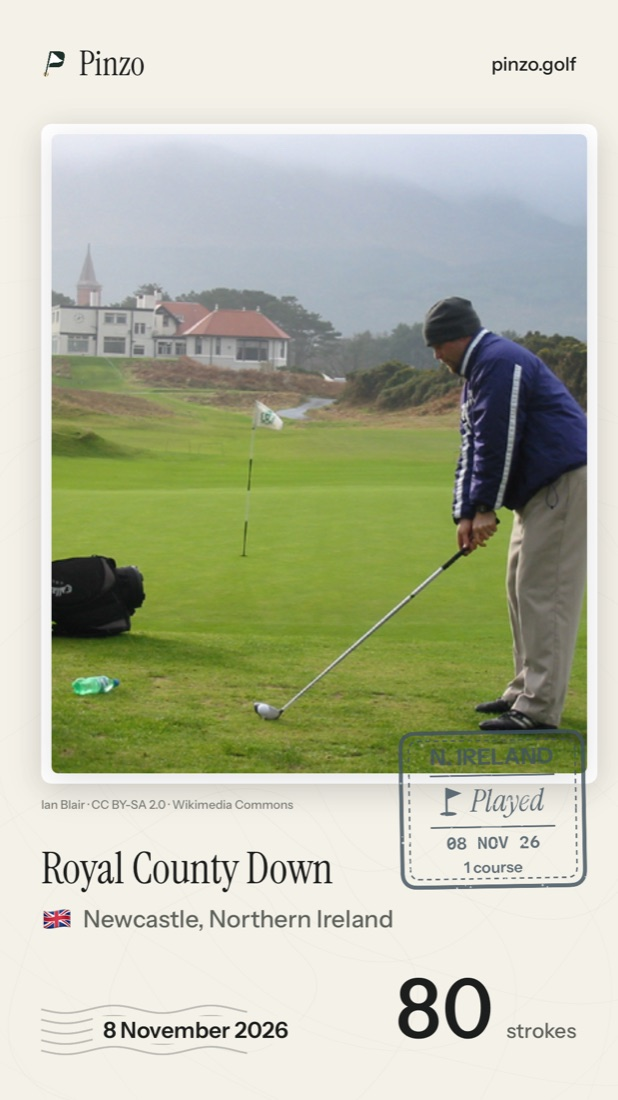
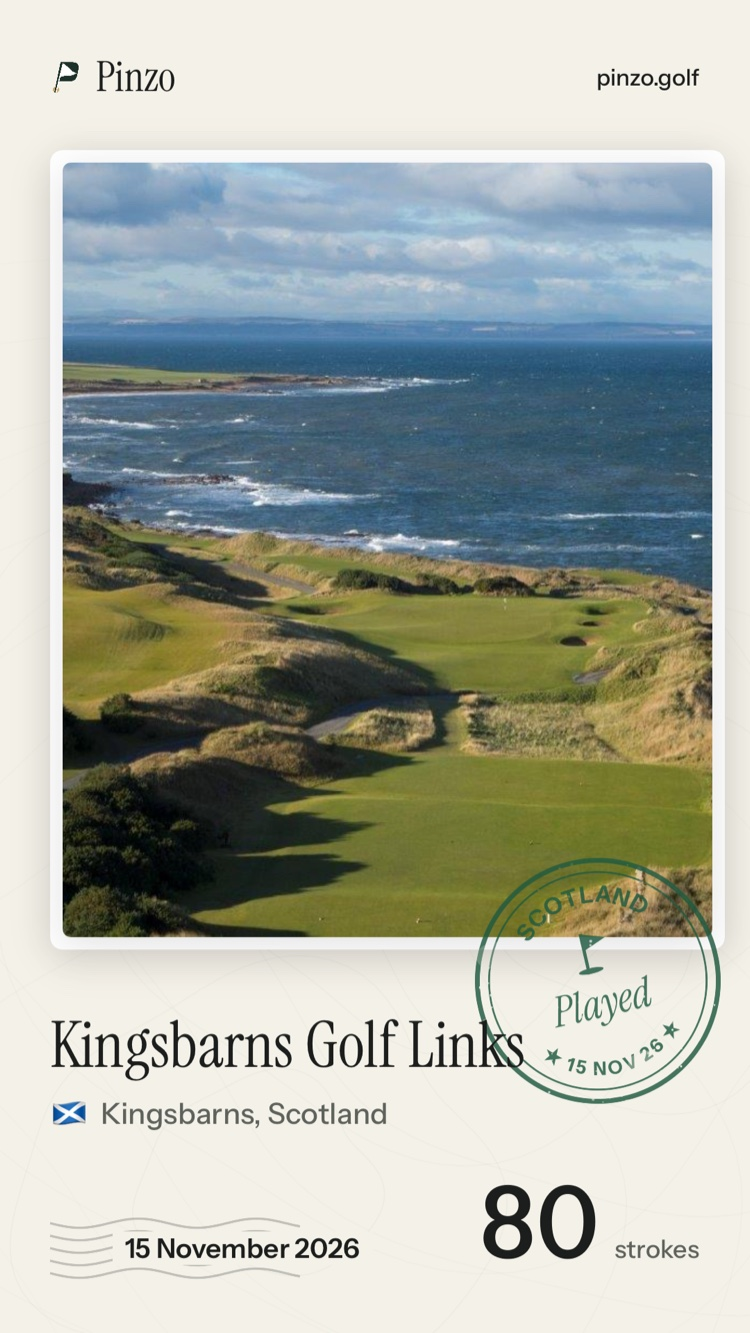
Calm scrolling, no globe hint, sharper mockups, Kingsbarns memories, shorter footer address

diff --git a/index.html b/index.html
@@ -31,7 +31,6 @@
           <span class="badge">Coming soon to the App Store</span>
           <span class="cta-note">Free on iPhone</span>
         </div>
-        <div class="ga-hint"><i></i>Drag the globe.<span class="hover-only"> Hover a pin.</span></div>
       </div>
       <div class="ga-stage reveal" id="stage">
         <canvas id="globeHero" role="img" aria-label="A globe of famous golf courses, joined like a journey"></canvas>
@@ -72,8 +71,8 @@
       <p>Add photos of the day, a note and a scan of your scorecard to any round. Years later, Pinzo brings it back on the day: <i>“3 years ago today, you played Royal County Down.”</i> Finish a round with your Apple Watch and it can remind you to log it.</p>
     </div>
     <div class="split-media pair">
-      <figure class="device"><img src="/assets/screens/home.jpg" alt="Home, with the latest round at Royal County Down"></figure>
-      <figure class="device"><img src="/assets/screens/log.jpg" alt="Logging a round: course, date, score, scorecard, photos and a note"></figure>
+      <figure class="device"><img src="/assets/screens/home.jpg" alt="Home, with the latest round at Kingsbarns above the sea"></figure>
+      <figure class="device"><img src="/assets/screens/log.jpg" alt="Logging a round at the Old Course, St Andrews: date, score, scorecard and photos"></figure>
     </div>
   </section>
 
@@ -94,7 +93,7 @@
       <p>Every round, stamp and milestone becomes a postcard for your Stories, designed and made on your iPhone.</p>
     </div>
     <div class="cards reveal" tabindex="0" aria-label="Example share postcards">
-      <img src="/assets/cards/round.jpg" alt="A round postcard: a photo of Royal County Down with a Northern Ireland stamp, the date and a score of 80">
+      <img src="/assets/cards/round.jpg" alt="A round postcard: Kingsbarns Golf Links above the sea, a Scotland stamp, the date and a score of 80">
       <img src="/assets/cards/stamp.jpg" alt="A Scotland stamp postcard, first played at the Old Course, St Andrews">
       <img src="/assets/cards/milestone.jpg" alt="A brass milestone seal for golf in ten countries">
       <img src="/assets/cards/passport.jpg" alt="A whole-passport postcard: courses, countries, rounds and nine stamps">
@@ -123,7 +122,7 @@
 <footer class="site"><div class="wrap">
   <div><a href="/support/">Support</a><a href="/privacy/">Privacy</a><a href="/terms/">Terms</a><a href="mailto:hello@pinzo.golf">hello@pinzo.golf</a></div>
   <div>© 2026 Pinzo Golf Ltd. Course data © OpenStreetMap contributors.</div>
-  <div style="flex-basis:100%;font-size:12px">Pinzo Golf Ltd is a private limited company registered in England &amp; Wales (company number 17360627). Registered office: Apartment 11, Wellingtonia House, Hellyer Close, North Ferriby, HU14 3JD, England.</div>
+  <div style="flex-basis:100%;font-size:12px">Pinzo Golf Ltd is a private limited company registered in England &amp; Wales (company number 17360627). Registered office: Wellingtonia House, Hellyer Close, North Ferriby, HU14 3JD, England.</div>
 </div></footer>
 <script>
   // Sections fade up gently as they arrive (skipped with Reduce Motion).
@@ -160,6 +159,24 @@ if (!matchMedia('(prefers-reduced-motion: reduce)').matches) document.querySelec
     const t0 = performance.now(); (function step(t){ const k = Math.min(1,(t-t0)/1400), e = 1-Math.pow(1-k,3);
       el.textContent = Math.round(end*e).toLocaleString('en-GB') + suffix; if (k<1) requestAnimationFrame(step); })(t0); }).observe(el);
 });
+</script>
+<script>
+  // In-page links glide to their section over about a second, easing in and out.
+  document.querySelectorAll('a[href^="#"]').forEach(function (a) {
+    a.addEventListener('click', function (e) {
+      var target = document.querySelector(a.getAttribute('href'));
+      if (!target) return;
+      e.preventDefault();
+      var start = scrollY, end = target.getBoundingClientRect().top + scrollY - 72, d = end - start;
+      if (matchMedia('(prefers-reduced-motion: reduce)').matches) { scrollTo(0, end); return; }
+      var dur = Math.min(1900, Math.max(1300, Math.abs(d) * 0.7)), t0 = performance.now();
+      (function step(t) {
+        var k = Math.min(1, (t - t0) / dur), e2 = k < .5 ? 4 * k * k * k : 1 - Math.pow(-2 * k + 2, 3) / 2;
+        scrollTo(0, start + d * e2);
+        if (k < 1) requestAnimationFrame(step); else history.replaceState(null, '', a.getAttribute('href'));
+      })(t0);
+    });
+  });
 </script>
 </body>
 </html>

diff --git a/404.html b/404.html
@@ -22,7 +22,7 @@
 <main class="wrap narrow doc"><h1>Out of bounds.</h1><p class="updated">That page doesn't exist. <a href="/">Back to Pinzo</a>.</p></main><footer class="site"><div class="wrap">
   <div><a href="/support/">Support</a><a href="/privacy/">Privacy</a><a href="/terms/">Terms</a><a href="mailto:hello@pinzo.golf">hello@pinzo.golf</a></div>
   <div>© 2026 Pinzo Golf Ltd. Course data © OpenStreetMap contributors.</div>
-  <div style="flex-basis:100%;font-size:12px">Pinzo Golf Ltd is a private limited company registered in England &amp; Wales (company number 17360627). Registered office: Apartment 11, Wellingtonia House, Hellyer Close, North Ferriby, HU14 3JD, England.</div>
+  <div style="flex-basis:100%;font-size:12px">Pinzo Golf Ltd is a private limited company registered in England &amp; Wales (company number 17360627). Registered office: Wellingtonia House, Hellyer Close, North Ferriby, HU14 3JD, England.</div>
 </div></footer>
 </body>
 </html>

diff --git a/privacy/index.html b/privacy/index.html
@@ -101,7 +101,7 @@
 <footer class="site"><div class="wrap">
   <div><a href="/support/">Support</a><a href="/privacy/">Privacy</a><a href="/terms/">Terms</a><a href="mailto:hello@pinzo.golf">hello@pinzo.golf</a></div>
   <div>© 2026 Pinzo Golf Ltd. Course data © OpenStreetMap contributors.</div>
-  <div style="flex-basis:100%;font-size:12px">Pinzo Golf Ltd is a private limited company registered in England &amp; Wales (company number 17360627). Registered office: Apartment 11, Wellingtonia House, Hellyer Close, North Ferriby, HU14 3JD, England.</div>
+  <div style="flex-basis:100%;font-size:12px">Pinzo Golf Ltd is a private limited company registered in England &amp; Wales (company number 17360627). Registered office: Wellingtonia House, Hellyer Close, North Ferriby, HU14 3JD, England.</div>
 </div></footer>
 </body>
 </html>

diff --git a/support/index.html b/support/index.html
@@ -54,7 +54,7 @@
 <footer class="site"><div class="wrap">
   <div><a href="/support/">Support</a><a href="/privacy/">Privacy</a><a href="/terms/">Terms</a><a href="mailto:hello@pinzo.golf">hello@pinzo.golf</a></div>
   <div>© 2026 Pinzo Golf Ltd. Course data © OpenStreetMap contributors.</div>
-  <div style="flex-basis:100%;font-size:12px">Pinzo Golf Ltd is a private limited company registered in England &amp; Wales (company number 17360627). Registered office: Apartment 11, Wellingtonia House, Hellyer Close, North Ferriby, HU14 3JD, England.</div>
+  <div style="flex-basis:100%;font-size:12px">Pinzo Golf Ltd is a private limited company registered in England &amp; Wales (company number 17360627). Registered office: Wellingtonia House, Hellyer Close, North Ferriby, HU14 3JD, England.</div>
 </div></footer>
 </body>
 </html>

diff --git a/terms/index.html b/terms/index.html
@@ -68,7 +68,7 @@
 <footer class="site"><div class="wrap">
   <div><a href="/support/">Support</a><a href="/privacy/">Privacy</a><a href="/terms/">Terms</a><a href="mailto:hello@pinzo.golf">hello@pinzo.golf</a></div>
   <div>© 2026 Pinzo Golf Ltd. Course data © OpenStreetMap contributors.</div>
-  <div style="flex-basis:100%;font-size:12px">Pinzo Golf Ltd is a private limited company registered in England &amp; Wales (company number 17360627). Registered office: Apartment 11, Wellingtonia House, Hellyer Close, North Ferriby, HU14 3JD, England.</div>
+  <div style="flex-basis:100%;font-size:12px">Pinzo Golf Ltd is a private limited company registered in England &amp; Wales (company number 17360627). Registered office: Wellingtonia House, Hellyer Close, North Ferriby, HU14 3JD, England.</div>
 </div></footer>
 </body>
 </html>
